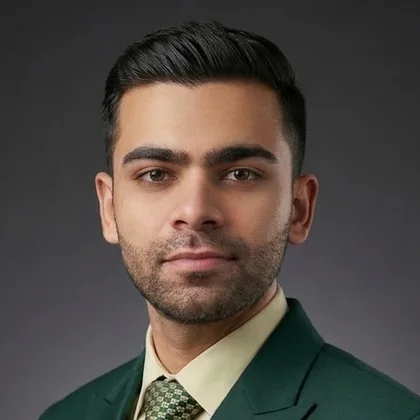
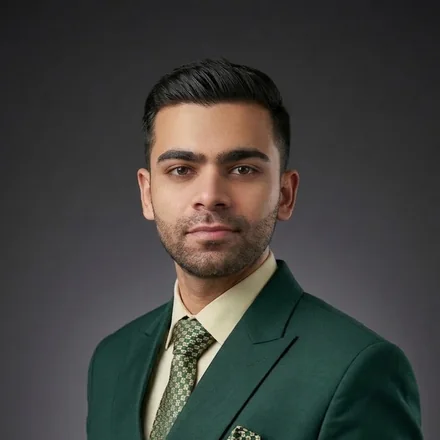
Softer headings, wider photo crop with full-size view, name the client
Claude-Session: https://claude.ai/code/session_01FvriC2hRniGh1RXjdHcqnk

diff --git a/assets/site.css b/assets/site.css
@@ -2,7 +2,7 @@
 :root{
   --green:#0e3b2e;--green2:#14503e;--green3:#1d6650;--brass:#c9a24a;--brass2:#e6cf94;
   --mint:#e3e9e4;--mint2:#d5ded7;--paper:#f2f5f2;--ink:#0a1f18;--moss:#56705f;--line:#c5d1c8;
-  --wide:125%;--ease:cubic-bezier(.22,.7,.2,1);
+  --wide:110%;--ease:cubic-bezier(.22,.7,.2,1);
 }
 *{box-sizing:border-box;margin:0;padding:0}
 html{scroll-behavior:smooth}
@@ -13,7 +13,7 @@ a{color:inherit}
 button{font:inherit;color:inherit;background:none;border:0;cursor:pointer}
 :focus-visible{outline:2px solid var(--brass);outline-offset:3px;border-radius:4px}
 .wrap{max-width:1160px;margin:0 auto;padding:0 32px}
-.wide{font-stretch:var(--wide);font-weight:800;letter-spacing:-.02em;line-height:.98}
+.wide{font-stretch:var(--wide);font-weight:620;letter-spacing:-.025em;line-height:1.02}
 h2.wide{font-size:clamp(40px,6vw,76px)}
 .lead{font-size:clamp(18px,1.6vw,21px);color:var(--moss);max-width:60ch;margin-top:18px}
 .btn{display:inline-flex;align-items:center;gap:10px;padding:14px 24px;border-radius:999px;font-weight:700;font-size:15.5px;text-decoration:none;transition:background .2s,color .2s,transform .2s}
@@ -49,22 +49,23 @@ h2.wide{font-size:clamp(40px,6vw,76px)}
 .band{background:var(--green);color:var(--mint);position:relative;overflow:hidden;padding:150px 0 140px}
 .band svg.lines{position:absolute;right:-4%;top:0;height:100%;width:56%;opacity:.55}
 .quote{position:relative;max-width:900px}
-.quote .mk{position:absolute;left:-.48em;top:-.22em;color:var(--brass);font-size:clamp(64px,7vw,112px);line-height:1;font-weight:800;font-stretch:125%}
-.quote p{font-stretch:118%;font-weight:600;font-size:clamp(28px,4.2vw,54px);line-height:1.08;letter-spacing:-.015em}
+.quote .mk{position:absolute;left:-.48em;top:-.22em;color:var(--brass);font-size:clamp(64px,7vw,112px);line-height:1;font-weight:700;font-stretch:110%}
+.quote p{font-stretch:108%;font-weight:480;font-size:clamp(28px,4.2vw,54px);line-height:1.08;letter-spacing:-.015em}
 .quote cite{display:flex;align-items:center;gap:14px;font-style:normal;color:var(--brass);font-weight:700;margin-top:26px;font-size:16px}
 .quote cite:before{content:"";width:44px;height:2px;background:var(--brass)}
 .who{display:grid;grid-template-columns:auto 1fr auto;gap:34px;align-items:end;margin-top:-96px;position:relative}
 .who .id{padding-top:112px}
-.ph{align-self:start;width:200px;height:200px;border-radius:50%;border:7px solid var(--mint);box-shadow:0 0 0 2px var(--brass);overflow:hidden;background:var(--green2)}
+.ph{align-self:start;cursor:zoom-in;padding:0;transition:transform .25s var(--ease);width:200px;height:200px;border-radius:50%;border:7px solid var(--mint);box-shadow:0 0 0 2px var(--brass);overflow:hidden;background:var(--green2)}
 .ph img{width:100%;height:100%;object-fit:cover}
-.who h1{font-size:clamp(38px,4.6vw,64px)}
+.who h1{font-size:clamp(36px,4.2vw,58px)}
+@media (min-width:981px){.who h1{white-space:nowrap}}
 .who .role{font-size:19px;font-weight:600;margin-top:12px}
 .who .loc{color:var(--moss);margin-top:2px}
 .who .act{display:flex;gap:10px;flex-wrap:wrap;padding-bottom:6px}
 .proof{display:grid;grid-template-columns:repeat(3,1fr);margin-top:64px;border-top:1.5px solid var(--ink);border-bottom:1px solid var(--line)}
 .proof div{padding:22px 24px 24px 0}
 .proof div+div{padding-left:24px;border-left:1px solid var(--line)}
-.proof b{display:block;font-stretch:var(--wide);font-weight:800;font-size:clamp(32px,3.6vw,46px);line-height:1;letter-spacing:-.02em}
+.proof b{display:block;font-stretch:var(--wide);font-weight:600;font-size:clamp(32px,3.6vw,46px);line-height:1;letter-spacing:-.02em}
 .proof span{display:block;margin-top:10px;color:var(--moss);font-size:15.5px;max-width:28ch}
 
 .load{animation:load .9s var(--ease) both}
@@ -88,7 +89,7 @@ h2.wide{font-size:clamp(40px,6vw,76px)}
 @keyframes slide{to{transform:translateX(calc(-50% - 8px))}}
 .job{width:330px;flex:none;text-align:left;background:var(--paper);border-radius:6px;padding:24px 24px 22px;border-top:5px solid var(--green);display:flex;flex-direction:column;gap:6px;transition:border-color .2s,background .2s}
 .job:hover{border-color:var(--brass);background:#fff}
-.job .org{font-stretch:var(--wide);font-weight:800;font-size:21px;letter-spacing:-.01em;line-height:1.1}
+.job .org{font-stretch:var(--wide);font-weight:650;font-size:21px;letter-spacing:-.01em;line-height:1.1}
 .job .r{font-weight:600}
 .job .d{color:var(--moss);font-size:14.5px}
 .job p{font-size:15.5px;margin-top:8px}
@@ -105,7 +106,7 @@ h2.wide{font-size:clamp(40px,6vw,76px)}
 .pane{display:none}
 .pane.on{display:block;animation:pane .4s var(--ease)}
 @keyframes pane{from{opacity:0;transform:translateY(8px)}}
-.pane h3{font-stretch:115%;font-weight:700;font-size:26px;letter-spacing:-.01em}
+.pane h3{font-stretch:106%;font-weight:620;font-size:26px;letter-spacing:-.01em}
 .pane .intro{color:#a9c2b4;max-width:60ch;margin-top:6px}
 .cols{display:grid;grid-template-columns:1fr 1fr;gap:40px;margin-top:30px;align-items:start}
 .lbl{font-weight:700;font-size:15px;color:var(--brass2);margin-bottom:12px}
@@ -139,7 +140,7 @@ input[type=range]{width:100%;accent-color:var(--brass);margin:18px 0 6px;height:
 .donut circle.s{cursor:pointer;transition:stroke-width .25s}
 .donut circle.s.on{stroke-width:30}
 .donut .mid{position:absolute;inset:0;display:flex;flex-direction:column;align-items:center;justify-content:center;text-align:center;pointer-events:none}
-.donut .mid b{font-stretch:var(--wide);font-weight:800;font-size:40px;line-height:1}
+.donut .mid b{font-stretch:var(--wide);font-weight:600;font-size:40px;line-height:1}
 .donut .mid span{font-size:14px;color:#bcd0c4;margin-top:4px;max-width:12ch}
 .legend{display:grid;gap:6px;flex:1}
 .legend button{display:flex;gap:12px;align-items:center;text-align:left;padding:10px 12px;border-radius:10px;transition:background .2s}
@@ -176,7 +177,7 @@ input[type=range]{width:100%;accent-color:var(--brass);margin:18px 0 6px;height:
 .gauge{width:260px;height:140px}
 .gauge path{fill:none;stroke-width:22;stroke-linecap:round}
 .gauge .fg{transition:stroke-dashoffset .5s var(--ease),stroke .3s}
-.meter .num{font-stretch:var(--wide);font-weight:800;font-size:56px;line-height:1;margin-top:-58px}
+.meter .num{font-stretch:var(--wide);font-weight:600;font-size:56px;line-height:1;margin-top:-58px}
 .meter .of{color:#a9c2b4;font-size:14px}
 .route{margin-top:22px;width:100%;border-radius:14px;padding:20px;background:var(--green);text-align:left}
 .route b{display:block;font-size:19px;font-stretch:112%}
@@ -195,7 +196,7 @@ input[type=range]{width:100%;accent-color:var(--brass);margin:18px 0 6px;height:
 .nodes button[aria-pressed=true] .n svg,.nodes button.done .n svg{stroke:var(--brass)}
 .nodes b{font-weight:700;font-stretch:112%}
 .tkpanel{display:grid;grid-template-columns:1.1fr .9fr;gap:24px;margin-top:40px;align-items:start}
-.tkinfo h3{font-stretch:var(--wide);font-weight:800;font-size:32px;letter-spacing:-.01em}
+.tkinfo h3{font-stretch:var(--wide);font-weight:620;font-size:32px;letter-spacing:-.01em}
 .tkinfo p{font-size:19px;margin-top:8px;max-width:44ch}
 .chips{display:flex;flex-wrap:wrap;gap:8px;margin-top:16px}
 .chips span{padding:7px 14px;border-radius:999px;background:var(--green);color:var(--mint);font-weight:600;font-size:15px}
@@ -215,7 +216,7 @@ input[type=range]{width:100%;accent-color:var(--brass);margin:18px 0 6px;height:
 .wyf{background:var(--green);color:var(--mint);border-radius:22px;padding:36px;position:relative;overflow:hidden;min-height:360px;display:flex;flex-direction:column;justify-content:flex-end}
 .wyf svg{position:absolute;right:-40px;top:-40px;width:300px;height:300px;opacity:.7}
 .wyf small{position:absolute;top:32px;left:36px;color:var(--brass);font-weight:700;font-size:15px}
-.wyf h3{font-stretch:var(--wide);font-weight:800;font-size:clamp(30px,3.4vw,42px);line-height:1.02;letter-spacing:-.015em;position:relative}
+.wyf h3{font-stretch:var(--wide);font-weight:600;font-size:clamp(30px,3.4vw,42px);line-height:1.02;letter-spacing:-.015em;position:relative}
 .wyf p{color:#bcd0c4;margin-top:12px;max-width:44ch;position:relative}
 .alist{display:grid;gap:14px;align-content:start}
 .alist div{padding:22px 0;border-bottom:1px solid var(--line)}
@@ -246,7 +247,7 @@ footer{display:flex;justify-content:space-between;gap:16px;flex-wrap:wrap;margin
 .modal.open{display:flex}
 .mbox{background:var(--mint);border-radius:20px;max-width:620px;width:100%;max-height:88vh;overflow:auto;padding:36px;position:relative;animation:pane .3s var(--ease)}
 .mbox .x{position:absolute;right:16px;top:16px;width:42px;height:42px;border-radius:50%;background:var(--green);color:var(--mint);font-size:22px;line-height:1}
-.mbox h3{font-stretch:var(--wide);font-weight:800;font-size:32px;line-height:1.05;letter-spacing:-.015em;padding-right:44px}
+.mbox h3{font-stretch:var(--wide);font-weight:640;font-size:32px;line-height:1.05;letter-spacing:-.015em;padding-right:44px}
 .mbox .r{font-weight:600;margin-top:6px}
 .mbox .d{color:var(--moss)}
 .mbox ul{list-style:none;margin-top:22px;display:grid;gap:12px}
@@ -302,3 +303,9 @@ footer{display:flex;justify-content:space-between;gap:16px;flex-wrap:wrap;margin
   .mbox{padding:26px 22px}
 }
 @media (prefers-reduced-motion:reduce){*{animation:none!important;transition:none!important}}
+
+.ph:hover{transform:scale(1.03)}
+.lb{position:fixed;inset:0;z-index:95;background:rgba(10,31,24,.86);display:none;align-items:center;justify-content:center;padding:24px;cursor:zoom-out}
+.lb.open{display:flex;animation:pane .3s var(--ease)}
+.lb img{max-height:88vh;max-width:min(92vw,620px);width:auto;height:auto;border-radius:14px;box-shadow:0 0 0 2px var(--brass)}
+.lb .x{position:absolute;right:18px;top:18px;width:44px;height:44px;border-radius:50%;background:var(--brass);color:var(--green);font-size:24px;line-height:1}

diff --git a/index.html b/index.html
@@ -19,7 +19,7 @@
 <link rel="icon" href="assets/favicon.png">
 <link rel="apple-touch-icon" href="assets/favicon.png">
 <link rel="preload" href="assets/fonts/archivo.woff2" as="font" type="font/woff2" crossorigin>
-<link rel="stylesheet" href="assets/site.css?v=386860">
+<link rel="stylesheet" href="assets/site.css?v=387828">
 <script type="application/ld+json">{"@context":"https://schema.org","@graph":[{"@type":"Person","@id":"https://huzaifurrehman.vercel.app/#me","name":"Huzaif ur Rehman","url":"https://huzaifurrehman.vercel.app/","image":"https://huzaifurrehman.vercel.app/assets/photo.webp","jobTitle":"Marketing and go-to-market","description":"Marketing, go-to-market and AI automation: outbound and inbound LinkedIn, Meta ads, lead scoring and pipeline automation.","email":"mailto:huzaifurrehman123@gmail.com","telephone":"+923248451679","address":{"@type":"PostalAddress","addressLocality":"Lahore","addressCountry":"PK"},"alumniOf":[{"@type":"CollegeOrUniversity","name":"Lahore University of Management Sciences (LUMS)"},{"@type":"CollegeOrUniversity","name":"Government College University, Lahore"}],"knowsAbout":["Go-to-market strategy","Demand generation","Lead generation","Lead scoring","ICP definition","Marketing automation","n8n","Salesforce","Apollo","GoHighLevel","LinkedIn Sales Navigator","Meta Ads","SEO","Generative engine optimization"],"sameAs":["https://www.linkedin.com/in/huzaif-ur-rehman-633692287"]},{"@type":"ProfilePage","@id":"https://huzaifurrehman.vercel.app/#page","url":"https://huzaifurrehman.vercel.app/","name":"Huzaif ur Rehman | Marketing, go-to-market and AI automation","mainEntity":{"@id":"https://huzaifurrehman.vercel.app/#me"}}]}</script>
 </head>
 <body>
@@ -49,7 +49,7 @@
   </div>
   <div class="wrap">
     <div class="who">
-      <div class="ph load l2"><img src="assets/photo.webp" width="200" height="200" alt="Huzaif ur Rehman" fetchpriority="high"></div>
+      <button class="ph load l2" id="phBtn" aria-label="View full photo"><img src="assets/photo.webp" width="200" height="200" alt="Huzaif ur Rehman" fetchpriority="high"></button>
       <div class="id load l3">
         <h1 class="wide">Huzaif ur Rehman</h1>
         <div class="role">Marketing, go-to-market and AI automation</div>
@@ -63,7 +63,7 @@
     <div class="proof load l4">
       <div><b>~30%</b><span>better lead quality and conversion efficiency at Powerhouse</span></div>
       <div><b>8% to 19%</b><span>proposal win rate at Coral Reef, in two months</span></div>
-      <div><b>10+</b><span>qualified meetings a month for an AI consultant</span></div>
+      <div><b>10+</b><span>qualified meetings a month for Elevation AI Solutions</span></div>
     </div>
   </div>
 </header>
@@ -210,9 +210,10 @@
 </section>
 
 <div class="modal" id="modal" role="dialog" aria-modal="true" aria-label="Role details"><div class="mbox"><button class="x" aria-label="Close">&times;</button><div id="mbody"></div></div></div>
+<div class="lb" id="lb" role="dialog" aria-modal="true" aria-label="Photo of Huzaif ur Rehman"><button class="x" aria-label="Close photo">&times;</button><img alt="Huzaif ur Rehman" width="720" height="1191"></div>
 <div class="toast" id="toast" role="status">Email copied</div>
 
-<script src="assets/data.js?v=386860" defer></script>
-<script src="assets/site.js?v=386860" defer></script>
+<script src="assets/data.js?v=387828" defer></script>
+<script src="assets/site.js?v=387828" defer></script>
 </body>
 </html>

diff --git a/src/index.html b/src/index.html
@@ -49,7 +49,7 @@
   </div>
   <div class="wrap">
     <div class="who">
-      <div class="ph load l2"><img src="assets/photo.webp" width="200" height="200" alt="Huzaif ur Rehman" fetchpriority="high"></div>
+      <button class="ph load l2" id="phBtn" aria-label="View full photo"><img src="assets/photo.webp" width="200" height="200" alt="Huzaif ur Rehman" fetchpriority="high"></button>
       <div class="id load l3">
         <h1 class="wide">Huzaif ur Rehman</h1>
         <div class="role">Marketing, go-to-market and AI automation</div>
@@ -63,7 +63,7 @@
     <div class="proof load l4">
       <div><b>~30%</b><span>better lead quality and conversion efficiency at Powerhouse</span></div>
       <div><b>8% to 19%</b><span>proposal win rate at Coral Reef, in two months</span></div>
-      <div><b>10+</b><span>qualified meetings a month for an AI consultant</span></div>
+      <div><b>10+</b><span>qualified meetings a month for Elevation AI Solutions</span></div>
     </div>
   </div>
 </header>
@@ -210,6 +210,7 @@
 </section>
 
 <div class="modal" id="modal" role="dialog" aria-modal="true" aria-label="Role details"><div class="mbox"><button class="x" aria-label="Close">&times;</button><div id="mbody"></div></div></div>
+<div class="lb" id="lb" role="dialog" aria-modal="true" aria-label="Photo of Huzaif ur Rehman"><button class="x" aria-label="Close photo">&times;</button><img alt="Huzaif ur Rehman" width="720" height="1191"></div>
 <div class="toast" id="toast" role="status">Email copied</div>
 
 <script src="assets/data.js?v={{V}}" defer></script>

diff --git a/assets/site.js b/assets/site.js
@@ -98,6 +98,13 @@ function play(){clearInterval(timer);let i=at>=D.stack.length-1?-1:at;timer=setI
 nB.forEach((b,i)=>b.onclick=()=>{clearInterval(timer);setS(i,true);});
 reset();addEventListener('resize',()=>at<0?reset():setS(at,false));
 
+/* photo lightbox */
+const lb=$('#lb'),lbi=$('img',lb);
+$('#phBtn').onclick=()=>{lbi.src='assets/portrait.webp';lb.classList.add('open');document.body.style.overflow='hidden';$('.x',lb).focus();};
+const lbClose=()=>{lb.classList.remove('open');document.body.style.overflow='';$('#phBtn').focus();};
+lb.onclick=e=>{if(e.target!==lbi)lbClose();};
+addEventListener('keydown',e=>{if(e.key==='Escape'&&lb.classList.contains('open'))lbClose();});
+
 /* contact */
 const toast=$('#toast');
 $('#copyEmail').onclick=async()=>{try{await navigator.clipboard.writeText(D.email);}catch(_){location.href='mailto:'+D.email;return;}toast.classList.add('show');setTimeout(()=>toast.classList.remove('show'),1800);};
